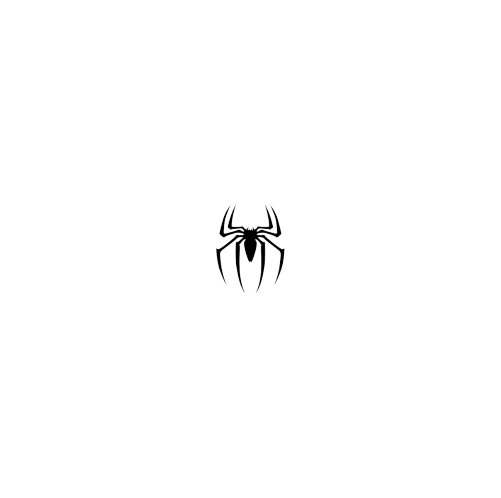
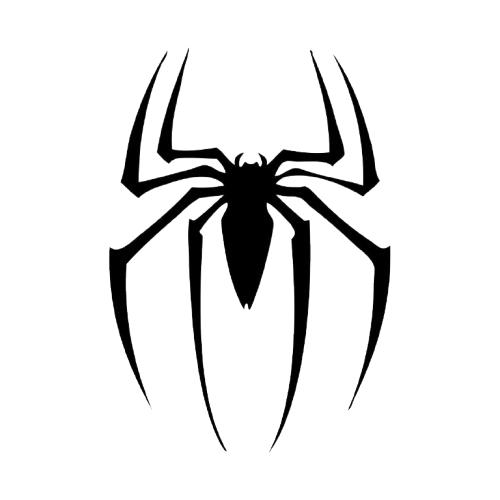
mudei o icone do X

Changed region(s): [[0.21, 0.0904, 0.78, 0.9036], [0.6, 0.0904, 0.63, 0.1205]]

diff --git a/script.js b/script.js
@@ -24,7 +24,11 @@ init();
 
 function newMove(e){
     const index = Number(e.target.getAttribute("data-i"));
-    e.target.innerHTML = player;
+    if (player === "X"){
+        e.target.innerHTML = `<img src="img/aranhaX.png" alt="jogador X" width="85" height="85" ></img>` ;
+    }
+    else
+        e.target.innerHTML = player
     e.target.removeEventListener("click",newMove);
     selected[index] = player;
 
@@ -53,9 +57,6 @@ closeBtn.addEventListener("click", () => {
     modal.close();
     init();
 });
-
-
-
 
 function check(){
     const playerLastMove = player === "X" ? "O" : "X";
